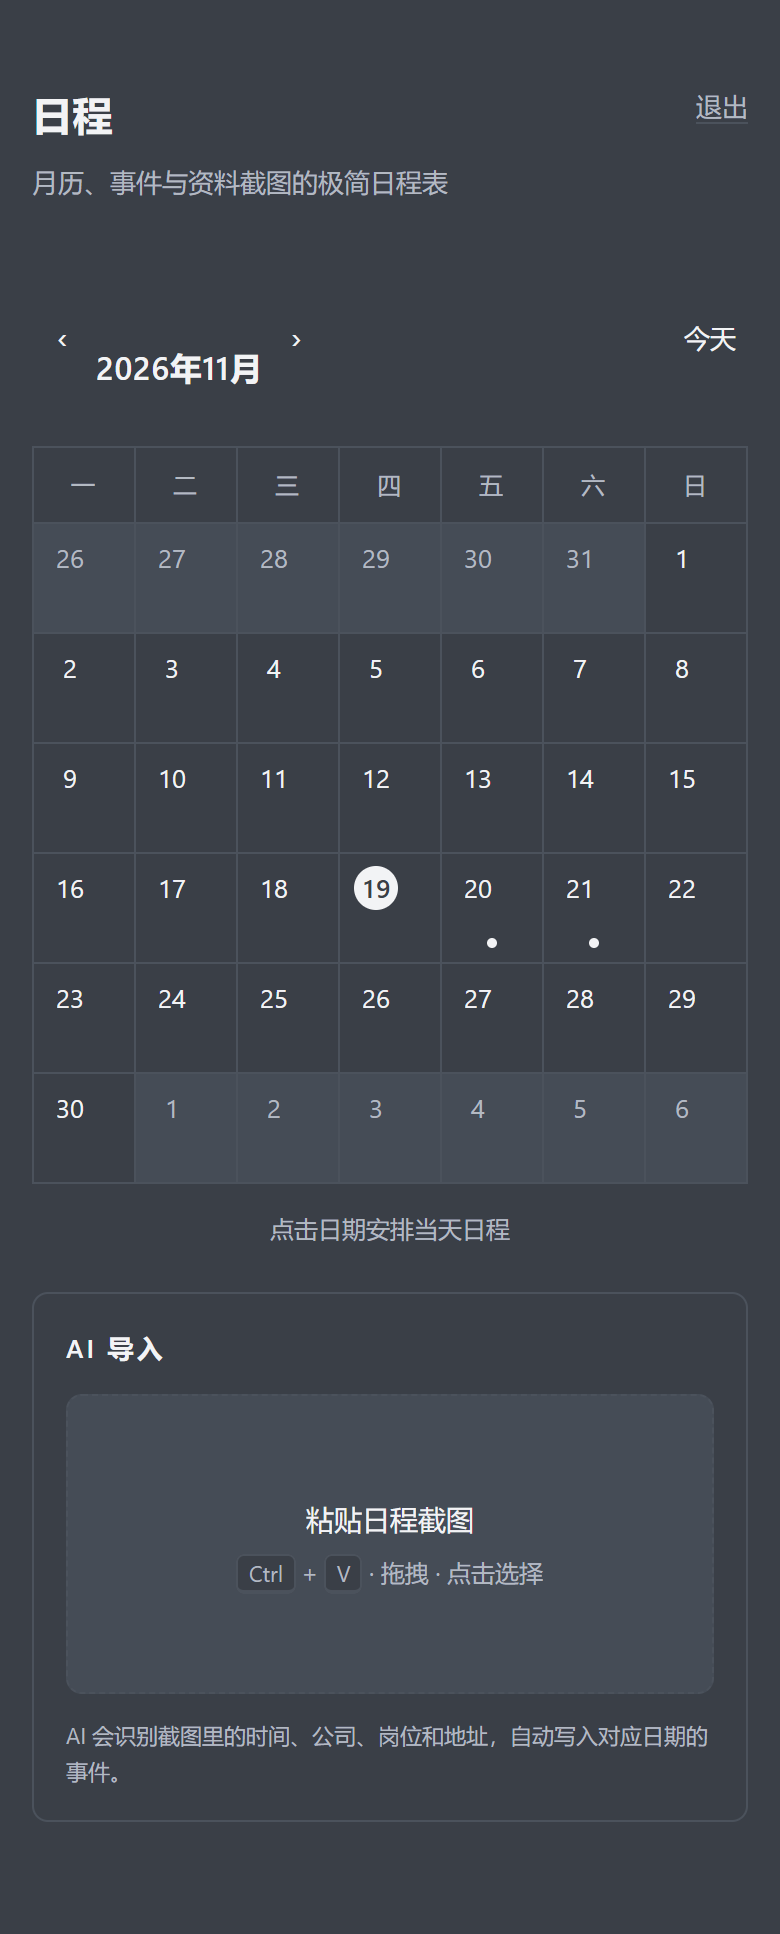
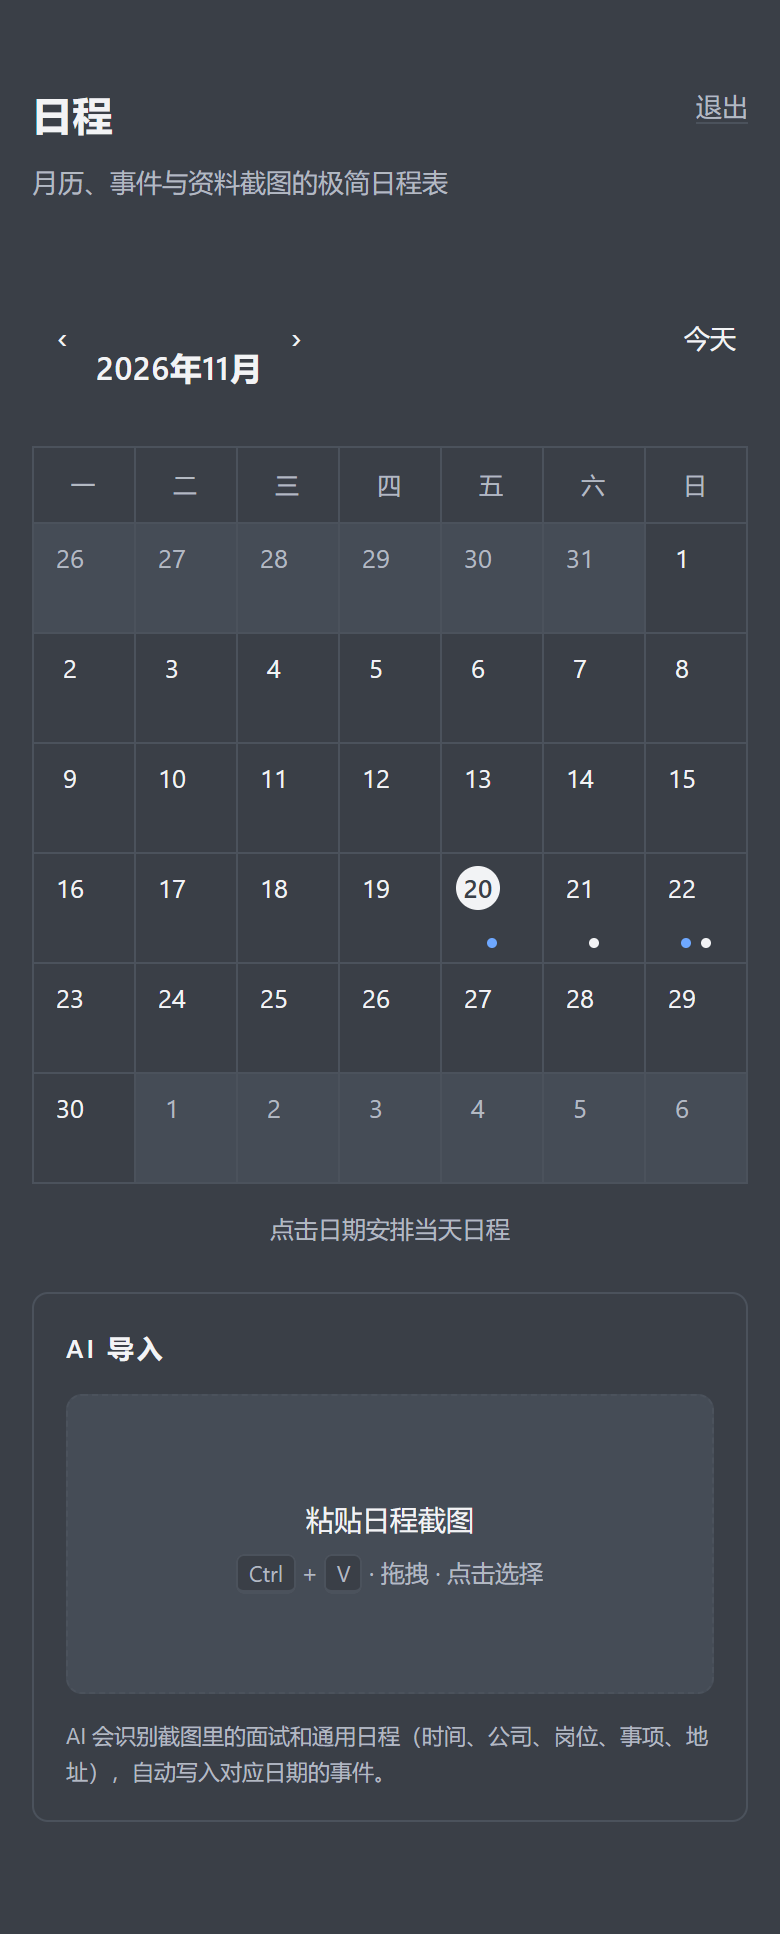
feat: 日历圆点区分面试与通用日程
- 面试日程显示蓝点，通用日程显示白点
- 同一天两类都有时并排显示两个圆点
- 根据事件文本识别类型：面试关键词/公司/岗位为面试，其余为通用
- 更新测试、README 与桌面/移动端截图

diff --git a/static/style.css b/static/style.css
@@ -9,6 +9,8 @@
   --muted: #b3b9c2;
   --line: #4b525c;
   --hover: #454c56;
+  /* 面试日程圆点：按需求保留的唯一强调色 */
+  --interview: #6ea8ff;
 }
 
 /* ---------- 基础 ---------- */
@@ -257,15 +259,28 @@ kbd {
   font-weight: 600;
 }
 
-.dot {
+.dots {
   position: absolute;
-  bottom: 10px;
+  bottom: 9px;
   left: 50%;
+  display: flex;
+  align-items: center;
+  gap: 5px;
+  transform: translateX(-50%);
+}
+
+.dot {
   width: 5px;
   height: 5px;
   border-radius: 50%;
+}
+
+.dot-general {
   background: var(--fg);
-  transform: translateX(-50%);
+}
+
+.dot-interview {
+  background: var(--interview);
 }
 
 .cal-tip {
@@ -957,7 +972,7 @@ body.no-scroll {
     line-height: 22px;
   }
 
-  .dot {
+  .dots {
     bottom: 7px;
   }
 

diff --git a/templates/calendar.html b/templates/calendar.html
@@ -23,7 +23,12 @@
            href="{{ url_for('day_view', date_str=cell.iso) }}"
            aria-label="{{ cell.iso }}{% if cell.has_content %}，有日程{% endif %}">
           <span class="num">{{ cell.day }}</span>
-          {% if cell.has_content %}<span class="dot" aria-hidden="true"></span>{% endif %}
+          {% if cell.has_interview or cell.has_general %}
+          <span class="dots" aria-hidden="true">
+            {% if cell.has_interview %}<span class="dot dot-interview"></span>{% endif %}
+            {% if cell.has_general %}<span class="dot dot-general"></span>{% endif %}
+          </span>
+          {% endif %}
         </a>
         {% endfor %}
       {% endfor %}

diff --git a/app.py b/app.py
@@ -221,6 +221,20 @@ def _normalize_ai_time(value: str) -> str:
     return ""
 
 
+def _event_kinds(text: str) -> set[str]:
+    """从事件文本判断当天包含的日程类型：面试 / 通用。"""
+    kinds: set[str] = set()
+    for raw_line in str(text or "").replace("\r\n", "\n").split("\n"):
+        line = raw_line.strip()
+        if not line:
+            continue
+        if "面试" in line or "公司：" in line or "岗位：" in line:
+            kinds.add("interview")
+        else:
+            kinds.add("general")
+    return kinds
+
+
 def _normalize_ai_events(payload: dict | None) -> list[dict]:
     """校验模型返回的 events，输出干净的面试/通用日程列表。"""
     if not isinstance(payload, dict):
@@ -592,18 +606,20 @@ def create_app(data_dir: str | Path | None = None) -> Flask:
 
         db = get_db()
         start_iso, end_iso = month_first.isoformat(), month_last.isoformat()
-        content_dates: set[str] = set()
+        day_kinds: dict[str, set[str]] = {}
         for row in db.execute(
             "SELECT date, event FROM days WHERE date BETWEEN ? AND ?",
             (start_iso, end_iso),
         ):
-            if (row["event"] or "").strip():
-                content_dates.add(row["date"])
+            text = row["event"] or ""
+            if text.strip():
+                day_kinds[row["date"]] = _event_kinds(text)
         for row in db.execute(
             "SELECT DISTINCT date FROM images WHERE date BETWEEN ? AND ?",
             (start_iso, end_iso),
         ):
-            content_dates.add(row["date"])
+            # 只有截图、没有事件文本的日期按通用日程显示白点
+            day_kinds.setdefault(row["date"], {"general"})
 
         grid_start = month_first - dt.timedelta(days=month_first.weekday())
         grid_end = month_last + dt.timedelta(days=6 - month_last.weekday())
@@ -612,13 +628,16 @@ def create_app(data_dir: str | Path | None = None) -> Flask:
         while cursor <= grid_end:
             week = []
             for _ in range(7):
+                kinds = day_kinds.get(cursor.isoformat(), set())
                 week.append(
                     {
                         "iso": cursor.isoformat(),
                         "day": cursor.day,
                         "in_month": cursor.month == month_first.month,
                         "is_today": cursor == today,
-                        "has_content": cursor.isoformat() in content_dates,
+                        "has_content": bool(kinds),
+                        "has_interview": "interview" in kinds,
+                        "has_general": "general" in kinds,
                     }
                 )
                 cursor += dt.timedelta(days=1)

diff --git a/tests/test_app.py b/tests/test_app.py
@@ -5,6 +5,7 @@
 
 import base64
 import json
+import re
 import shutil
 import tempfile
 import unittest
@@ -186,6 +187,53 @@ class SchedulTestCase(unittest.TestCase):
             self.client.put(f"/api/days/{DATE}", json={"event": whitespace})
             html = self.client.get("/?month=2026-11").get_data(as_text=True)
             self.assertNotIn("2026-11-04，有日程", html, repr(whitespace))
+
+    def test_event_kinds(self):
+        self.assertEqual(
+            app_module._event_kinds("15:00 公司：字节跳动｜岗位：AI 开发"),
+            {"interview"},
+        )
+        self.assertEqual(
+            app_module._event_kinds("19:30 事项：产品分享会｜地址：线上会议"),
+            {"general"},
+        )
+        self.assertEqual(app_module._event_kinds("10:00 面试"), {"interview"})
+        self.assertEqual(app_module._event_kinds("  \n\t "), set())
+
+    def test_calendar_dots_distinguish_interview_and_general(self):
+        self.login_ok()
+        self.client.put(
+            "/api/days/2026-11-20",
+            json={"event": "15:00 公司：字节跳动｜岗位：AI 开发｜地址：腾讯会议"},
+        )
+        self.client.put(
+            "/api/days/2026-11-21",
+            json={"event": "19:30 事项：产品分享会｜地址：线上会议"},
+        )
+        self.client.put(
+            "/api/days/2026-11-22",
+            json={"event": "09:00 公司：甲｜岗位：乙\n19:00 事项：晚餐"},
+        )
+        html = self.client.get("/?month=2026-11").get_data(as_text=True)
+
+        def cell(date: str) -> str:
+            matched = re.search(
+                rf'aria-label="{date}，有日程".*?</a>', html, re.S
+            )
+            self.assertIsNotNone(matched, date)
+            return matched.group(0)
+
+        interview_cell = cell("2026-11-20")
+        self.assertIn("dot-interview", interview_cell)
+        self.assertNotIn("dot-general", interview_cell)
+
+        general_cell = cell("2026-11-21")
+        self.assertIn("dot-general", general_cell)
+        self.assertNotIn("dot-interview", general_cell)
+
+        mixed_cell = cell("2026-11-22")
+        self.assertIn("dot-interview", mixed_cell)
+        self.assertIn("dot-general", mixed_cell)
 
     def test_api_405_is_json(self):
         self.login_ok()
